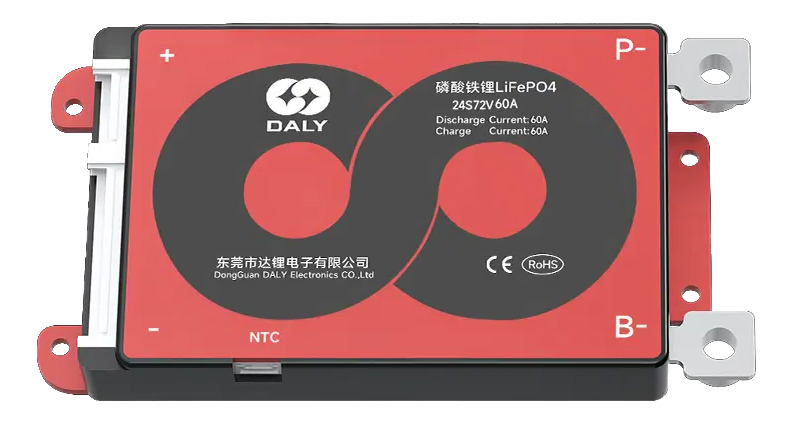
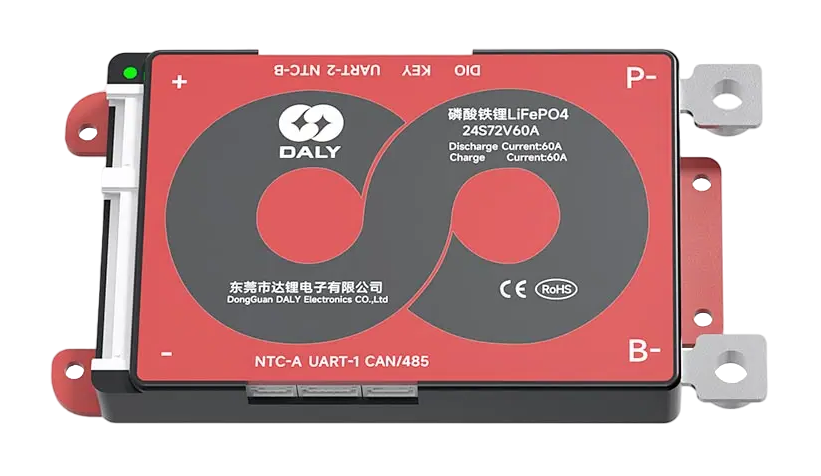
[daly_hkms_bms]: replace bms picture, remove switch section

diff --git a/components/sensor/daly_hkms_bms.rst b/components/sensor/daly_hkms_bms.rst
@@ -181,12 +181,6 @@ Configuration variables:
 - **balancing_active** (*Optional*): Whether the BMS is currently balancing the cells.
   All options from :ref:`Binary Sensor <config-binary_sensor>`.
 
-
-Control BMS
------------
-
-TODO
-
 UART Connection
 ---------------
 
